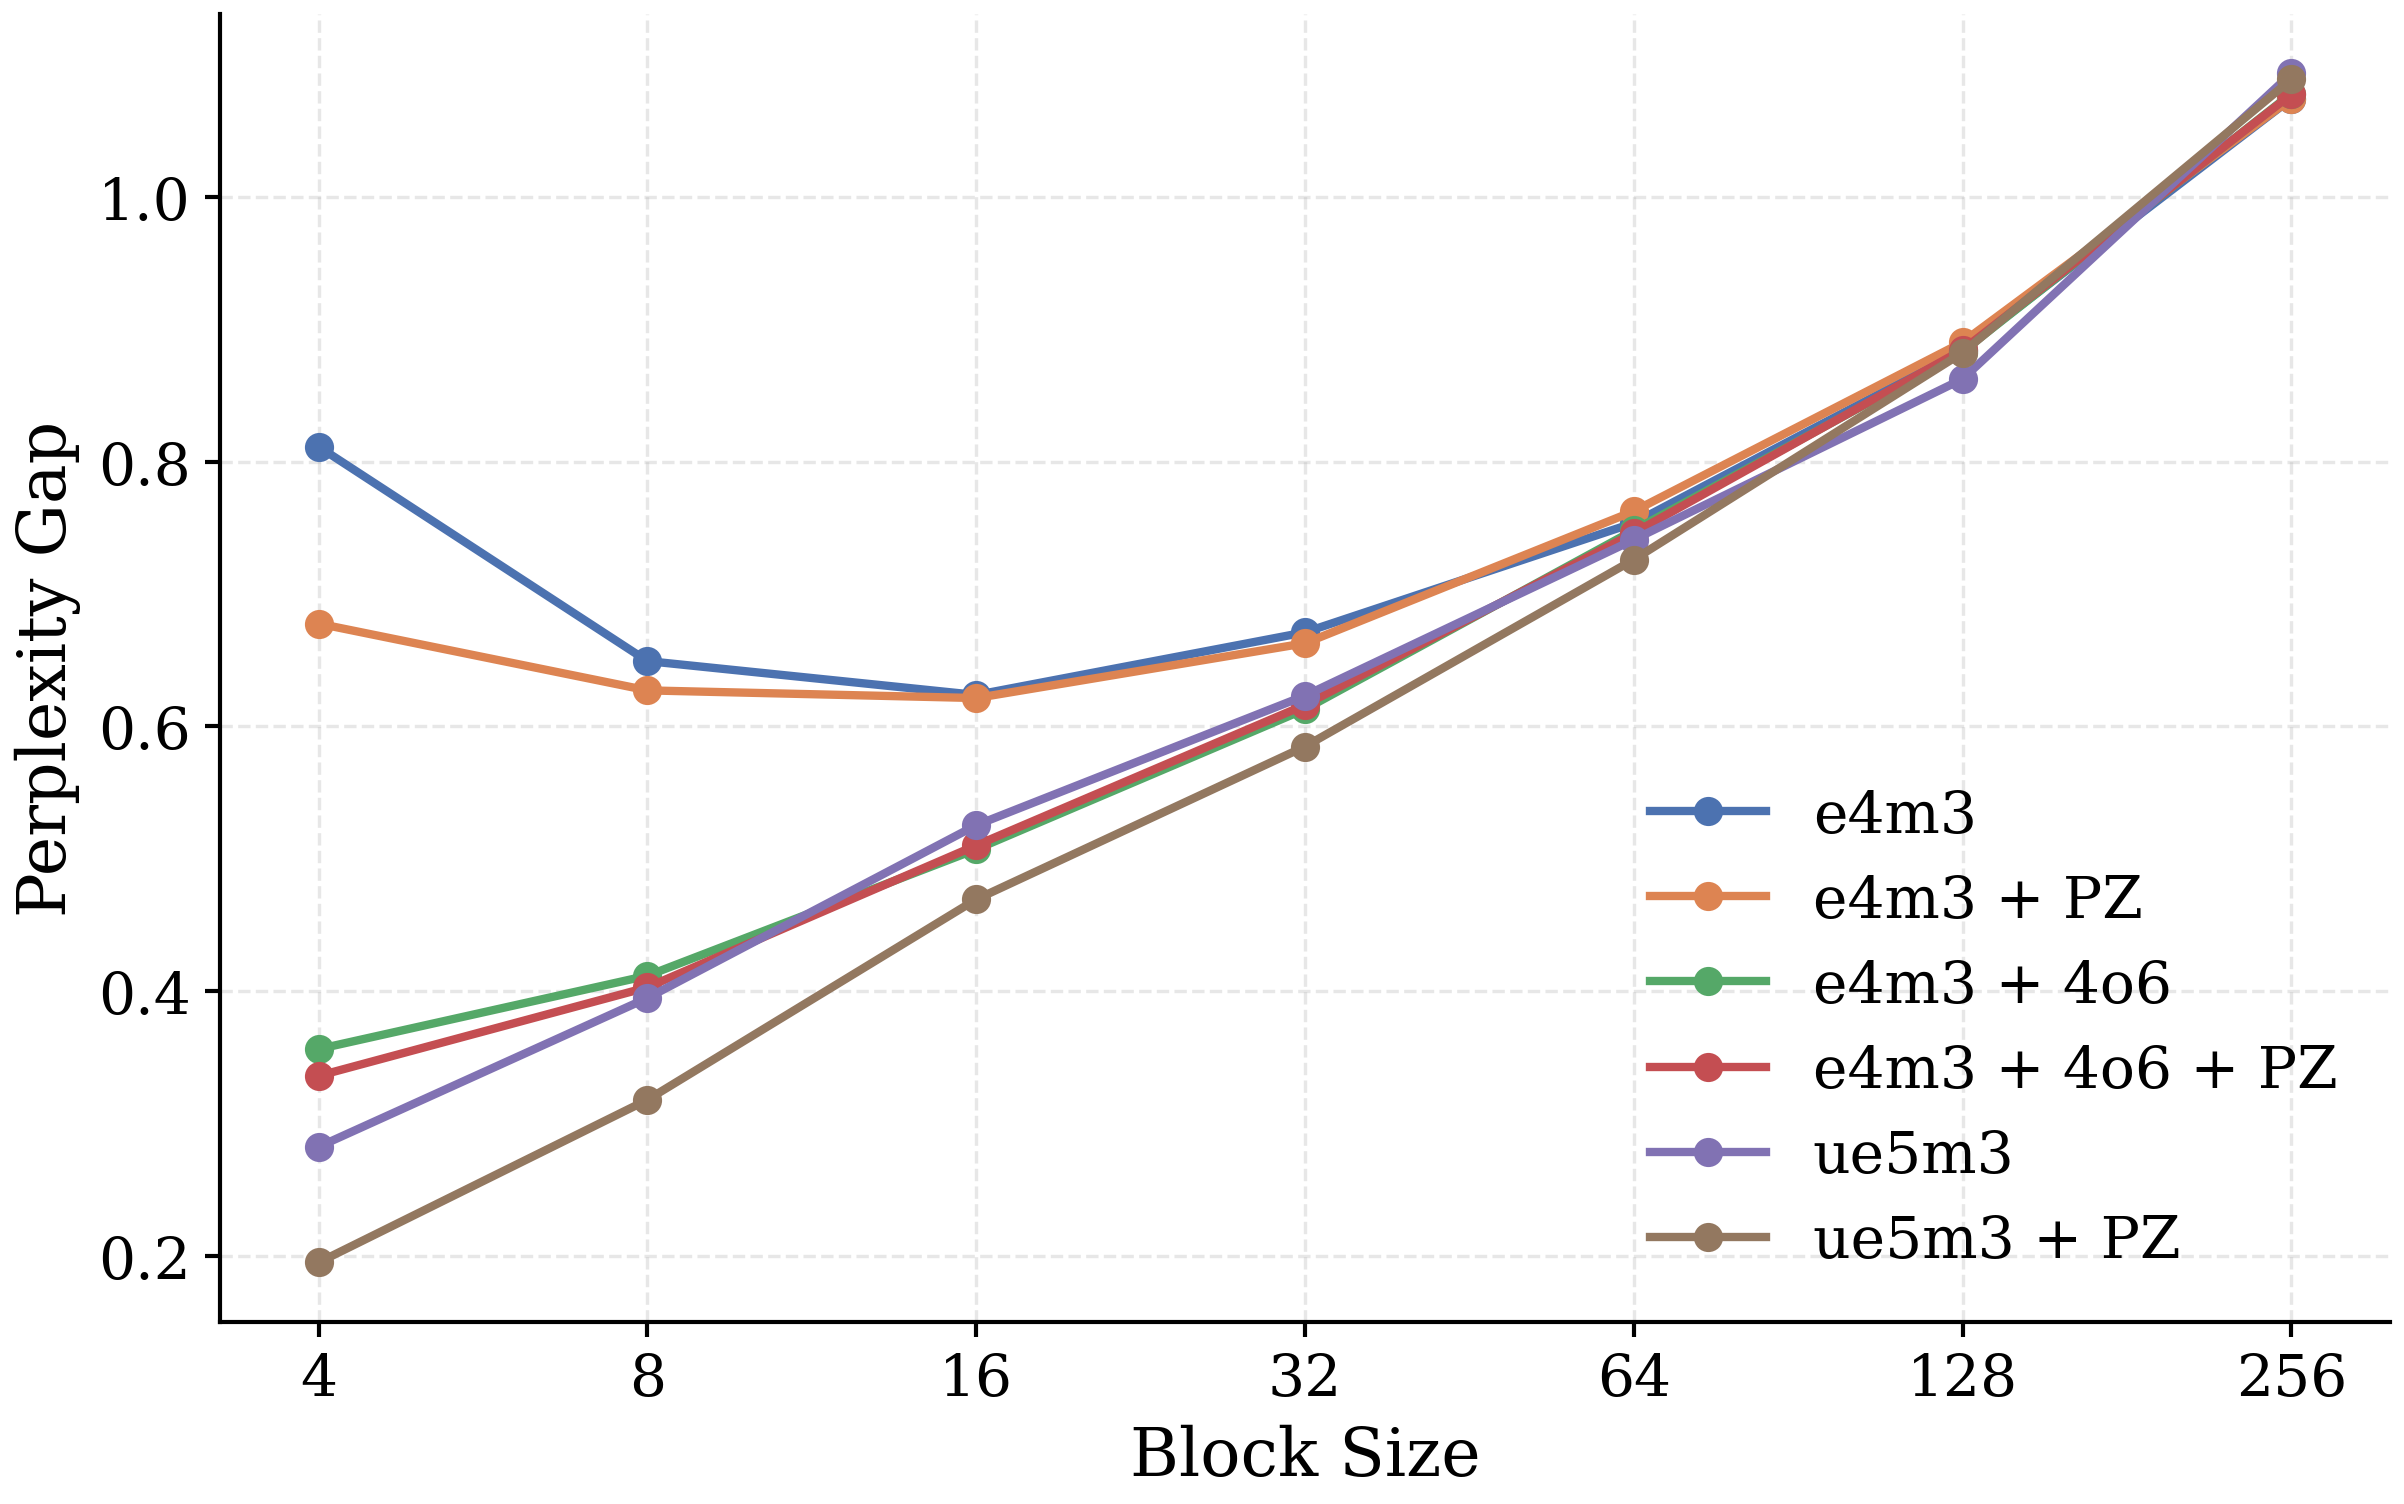
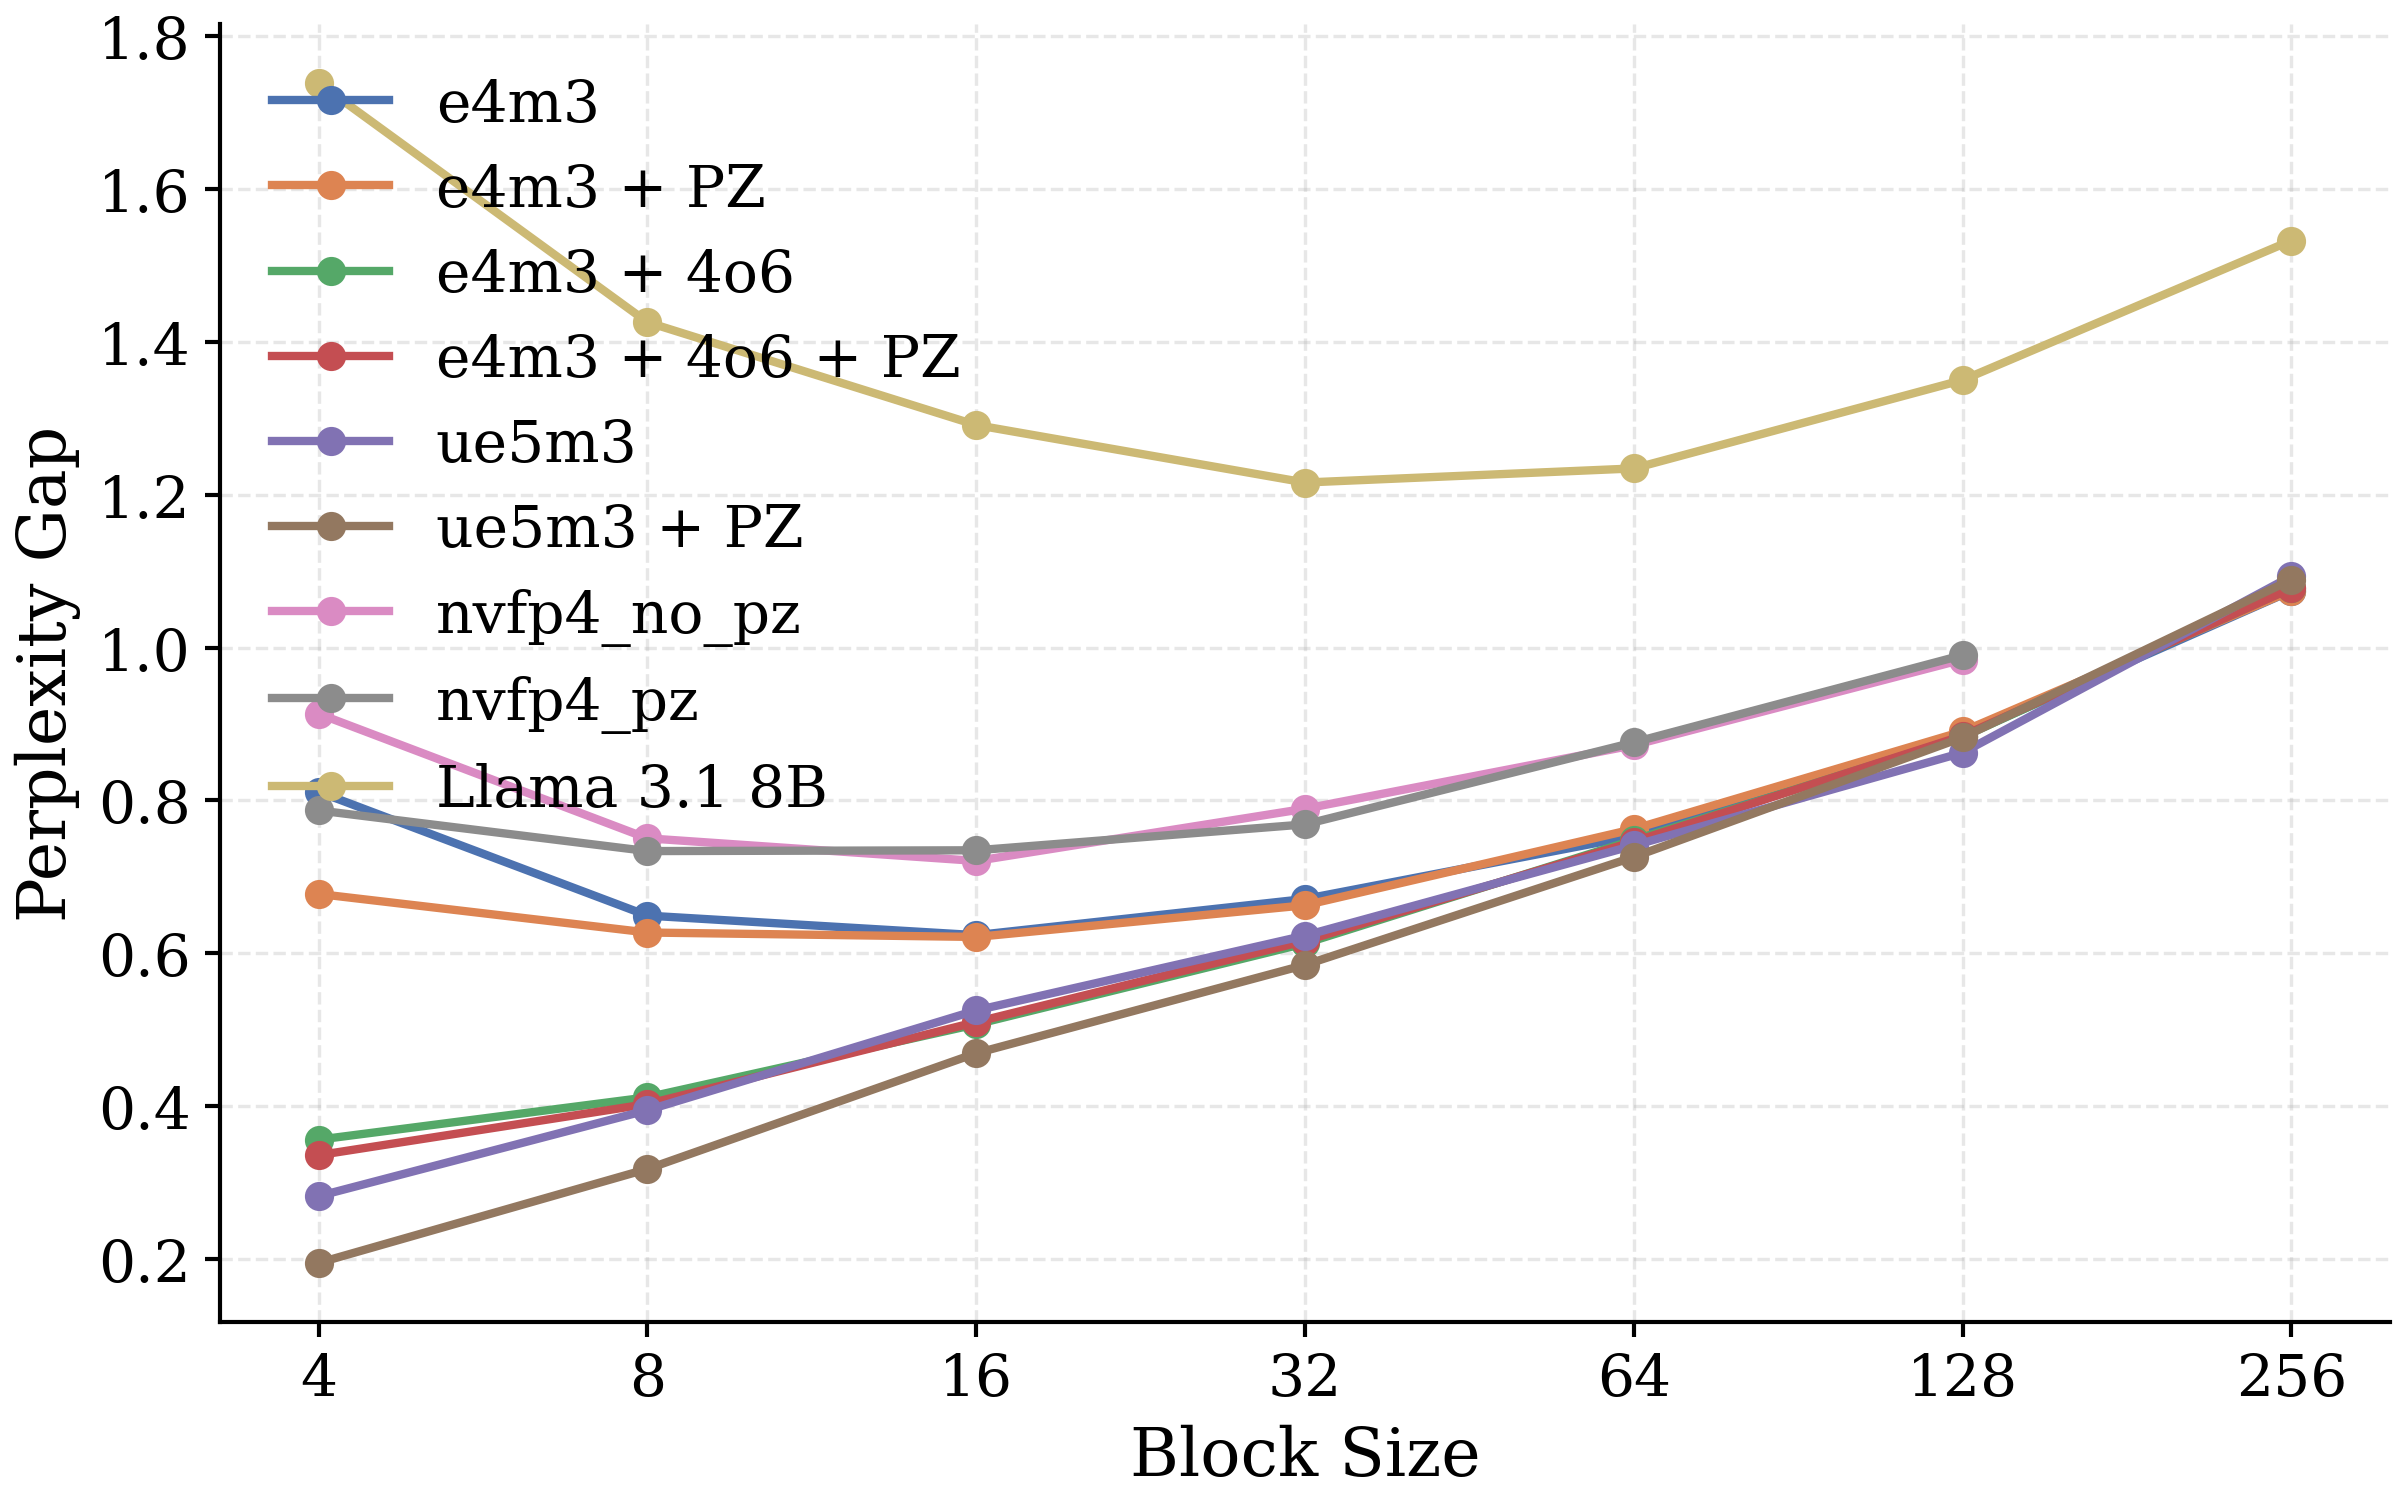
Update README and plots with final results

diff --git a/README.md b/README.md
@@ -80,54 +80,101 @@ This section is automatically updated by the evaluation script after each run. D
 
 |                 |   Baseline |   BS=4 |   BS=8 |   BS=16 |   BS=32 |   BS=64 |   BS=128 |   BS=256 |
 |:----------------|-----------:|-------:|-------:|--------:|--------:|--------:|---------:|---------:|
-| e4m3            |        nan |   0.4  |   0.52 |    0.65 |    0.82 |    0.99 |     1.19 |     1.51 |
-| e4m3 + PZ       |        nan |   0.4  |   0.52 |    0.66 |    0.82 |    0.98 |     1.19 |     1.51 |
-| e4m3 + 4o6      |        nan |   0.25 |   0.38 |    0.54 |    0.73 |    0.93 |     1.19 |     1.49 |
-| e4m3 + 4o6 + PZ |        nan |   0.25 |   0.39 |    0.54 |    0.74 |    0.94 |     1.19 |     1.49 |
-| ue5m3           |        nan |   0.32 |   0.48 |    0.64 |    0.82 |    0.97 |     1.22 |     1.53 |
-| ue5m3 + PZ      |        nan |   0.24 |   0.36 |    0.54 |    0.72 |    0.92 |     1.2  |     1.53 |
+| e4m3            |     nan    |   0.4  |   0.52 |    0.65 |    0.82 |    0.99 |     1.19 |     1.51 |
+| e4m3 + PZ       |      12.39 |   0.4  |   0.52 |    0.66 |    0.82 |    0.98 |     1.19 |     1.51 |
+| e4m3 + 4o6      |     nan    |   0.25 |   0.38 |    0.54 |    0.73 |    0.93 |     1.19 |     1.49 |
+| e4m3 + 4o6 + PZ |     nan    |   0.25 |   0.39 |    0.54 |    0.74 |    0.94 |     1.19 |     1.49 |
+| ue5m3           |     nan    |   0.32 |   0.48 |    0.64 |    0.82 |    0.97 |     1.22 |     1.53 |
+| ue5m3 + PZ      |     nan    |   0.24 |   0.36 |    0.54 |    0.72 |    0.92 |     1.2  |     1.53 |
+| nvfp4           |      12.28 | nan    | nan    |  nan    |  nan    |  nan    |   nan    |   nan    |
+| DeepSeek 7B     |     nan    | nan    | nan    |  nan    |  nan    |  nan    |   nan    |   nan    |
+
+### DeepSeek 7B
+
+|             |   Baseline |   BS=4 |   BS=8 |   BS=16 |   BS=32 |   BS=64 |   BS=128 |   BS=256 |
+|:------------|-----------:|-------:|-------:|--------:|--------:|--------:|---------:|---------:|
+| DeepSeek 7B |        nan |    nan |    nan |     nan |     nan |     nan |      nan |      nan |
 
 ### Granite
 
 |                 |   Baseline |   BS=4 |   BS=8 |   BS=16 |   BS=32 |   BS=64 |   BS=128 |   BS=256 |
 |:----------------|-----------:|-------:|-------:|--------:|--------:|--------:|---------:|---------:|
-| e4m3            |        nan |   1.06 |   0.89 |    0.83 |    0.86 |    0.96 |     1.13 |     1.5  |
-| e4m3 + PZ       |        nan |   0.96 |   0.88 |    0.83 |    0.87 |    0.96 |     1.13 |     1.5  |
-| e4m3 + 4o6      |        nan |   0.62 |   0.67 |    0.75 |    0.88 |    0.97 |     1.13 |     1.48 |
-| e4m3 + 4o6 + PZ |        nan |   0.62 |   0.67 |    0.75 |    0.89 |    0.97 |     1.13 |     1.48 |
-| ue5m3           |        nan |   0.16 |   0.23 |    0.3  |    0.38 |    0.57 |     0.79 |     1.19 |
-| ue5m3 + PZ      |        nan |   0.11 |   0.17 |    0.25 |    0.36 |    0.57 |     0.77 |     1.23 |
+| e4m3            |     nan    |   1.06 |   0.89 |    0.83 |    0.86 |    0.96 |     1.13 |     1.5  |
+| e4m3 + PZ       |       4.91 |   0.96 |   0.88 |    0.83 |    0.87 |    0.96 |     1.13 |     1.5  |
+| e4m3 + 4o6      |     nan    |   0.62 |   0.67 |    0.75 |    0.88 |    0.97 |     1.13 |     1.48 |
+| e4m3 + 4o6 + PZ |     nan    |   0.62 |   0.67 |    0.75 |    0.89 |    0.97 |     1.13 |     1.48 |
+| ue5m3           |     nan    |   0.16 |   0.23 |    0.3  |    0.38 |    0.57 |     0.79 |     1.19 |
+| ue5m3 + PZ      |     nan    |   0.11 |   0.17 |    0.25 |    0.36 |    0.57 |     0.77 |     1.23 |
+| nvfp4           |       4.72 | nan    | nan    |  nan    |  nan    |  nan    |   nan    |   nan    |
+| Granite 3.3 8B  |     nan    | nan    | nan    |  nan    |  nan    |  nan    |   nan    |   nan    |
+
+### Granite 3.3 8B
+
+|                |   Baseline |   BS=4 |   BS=8 |   BS=16 |   BS=32 |   BS=64 |   BS=128 |   BS=256 |
+|:---------------|-----------:|-------:|-------:|--------:|--------:|--------:|---------:|---------:|
+| Granite 3.3 8B |        nan |    nan |    nan |     nan |     nan |     nan |      nan |      nan |
 
 ### Llama
 
 |                 |   Baseline |   BS=4 |   BS=8 |   BS=16 |   BS=32 |   BS=64 |   BS=128 |   BS=256 |
 |:----------------|-----------:|-------:|-------:|--------:|--------:|--------:|---------:|---------:|
-| e4m3            |       6.33 |   0.81 |   0.65 |    0.62 |    0.67 |    0.75 |     0.88 |     1.07 |
-| e4m3 + PZ       |       6.33 |   0.68 |   0.63 |    0.62 |    0.66 |    0.76 |     0.89 |     1.07 |
-| e4m3 + 4o6      |       6.33 |   0.36 |   0.41 |    0.51 |    0.61 |    0.75 |     0.88 |     1.08 |
-| e4m3 + 4o6 + PZ |       6.33 |   0.34 |   0.4  |    0.51 |    0.62 |    0.75 |     0.88 |     1.08 |
-| ue5m3           |       6.33 |   0.28 |   0.39 |    0.53 |    0.62 |    0.74 |     0.86 |     1.09 |
-| ue5m3 + PZ      |       6.33 |   0.19 |   0.32 |    0.47 |    0.58 |    0.73 |     0.88 |     1.09 |
+| e4m3            |     nan    |   0.81 |   0.65 |    0.62 |    0.67 |    0.75 |     0.88 |     1.07 |
+| e4m3 + PZ       |     nan    |   0.68 |   0.63 |    0.62 |    0.66 |    0.76 |     0.89 |     1.07 |
+| e4m3 + 4o6      |     nan    |   0.36 |   0.41 |    0.51 |    0.61 |    0.75 |     0.88 |     1.08 |
+| e4m3 + 4o6 + PZ |     nan    |   0.34 |   0.4  |    0.51 |    0.62 |    0.75 |     0.88 |     1.08 |
+| ue5m3           |     nan    |   0.28 |   0.39 |    0.53 |    0.62 |    0.74 |     0.86 |     1.09 |
+| ue5m3 + PZ      |     nan    |   0.19 |   0.32 |    0.47 |    0.58 |    0.73 |     0.88 |     1.09 |
+| nvfp4_no_pz     |     nan    |   0.91 |   0.75 |    0.72 |    0.79 |    0.87 |     0.98 |   nan    |
+| nvfp4_pz        |     nan    |   0.79 |   0.73 |    0.73 |    0.77 |    0.88 |     0.99 |   nan    |
+| nvfp4           |       6.33 | nan    | nan    |  nan    |  nan    |  nan    |   nan    |   nan    |
+| Llama 3.1 8B    |     nan    |   1.74 |   1.43 |    1.29 |    1.22 |    1.23 |     1.35 |     1.53 |
+
+### Llama 3.1 8B
+
+|              |   Baseline |   BS=4 |   BS=8 |   BS=16 |   BS=32 |   BS=64 |   BS=128 |   BS=256 |
+|:-------------|-----------:|-------:|-------:|--------:|--------:|--------:|---------:|---------:|
+| Llama 3.1 8B |        nan |   1.74 |   1.43 |    1.29 |    1.22 |    1.23 |     1.35 |     1.53 |
 
 ### Qwen
 
-|      |   Baseline |   BS=4 |   BS=8 |   BS=16 |   BS=32 |   BS=64 |   BS=128 |   BS=256 |
-|:-----|-----------:|-------:|-------:|--------:|--------:|--------:|---------:|---------:|
-| e4m3 |        nan |   0.47 |   0.49 |    0.56 |    0.65 |    0.81 |     1.04 |     1.49 |
+|              |   Baseline |   BS=4 |   BS=8 |   BS=16 |   BS=32 |   BS=64 |   BS=128 |   BS=256 |
+|:-------------|-----------:|-------:|-------:|--------:|--------:|--------:|---------:|---------:|
+| e4m3         |     nan    |   0.47 |   0.49 |    0.56 |    0.65 |    0.81 |     1.04 |     1.49 |
+| e4m3 + PZ    |       4.77 | nan    | nan    |  nan    |  nan    |  nan    |   nan    |   nan    |
+| nvfp4        |       5.36 | nan    | nan    |  nan    |  nan    |  nan    |   nan    |   nan    |
+| Qwen 2.5 14B |     nan    | nan    | nan    |  nan    |  nan    |  nan    |   nan    |   nan    |
+
+### Qwen 2.5 14B
+
+|              |   Baseline |   BS=4 |   BS=8 |   BS=16 |   BS=32 |   BS=64 |   BS=128 |   BS=256 |
+|:-------------|-----------:|-------:|-------:|--------:|--------:|--------:|---------:|---------:|
+| Qwen 2.5 14B |        nan |    nan |    nan |     nan |     nan |     nan |      nan |      nan |
 
 ### Graphs
 <table>
   <tr>
     <td><img src="plots/gap_deepseek.png" alt="DeepSeek Gap" width="400">
 <p align="center">DeepSeek Gap</p></td>
+    <td><img src="plots/gap_deepseek_7b.png" alt="DeepSeek 7B Gap" width="400">
+<p align="center">DeepSeek 7B Gap</p></td>
+  </tr>
+  <tr>
     <td><img src="plots/gap_granite.png" alt="Granite Gap" width="400">
 <p align="center">Granite Gap</p></td>
+    <td><img src="plots/gap_granite_3.3_8b.png" alt="Granite 3.3 8B Gap" width="400">
+<p align="center">Granite 3.3 8B Gap</p></td>
   </tr>
   <tr>
     <td><img src="plots/gap_llama.png" alt="Llama Gap" width="400">
 <p align="center">Llama Gap</p></td>
+    <td><img src="plots/gap_llama_3.1_8b.png" alt="Llama 3.1 8B Gap" width="400">
+<p align="center">Llama 3.1 8B Gap</p></td>
+  </tr>
+  <tr>
     <td><img src="plots/gap_qwen.png" alt="Qwen Gap" width="400">
 <p align="center">Qwen Gap</p></td>
+    <td><img src="plots/gap_qwen_2.5_14b.png" alt="Qwen 2.5 14B Gap" width="400">
+<p align="center">Qwen 2.5 14B Gap</p></td>
   </tr>
 </table>
 
